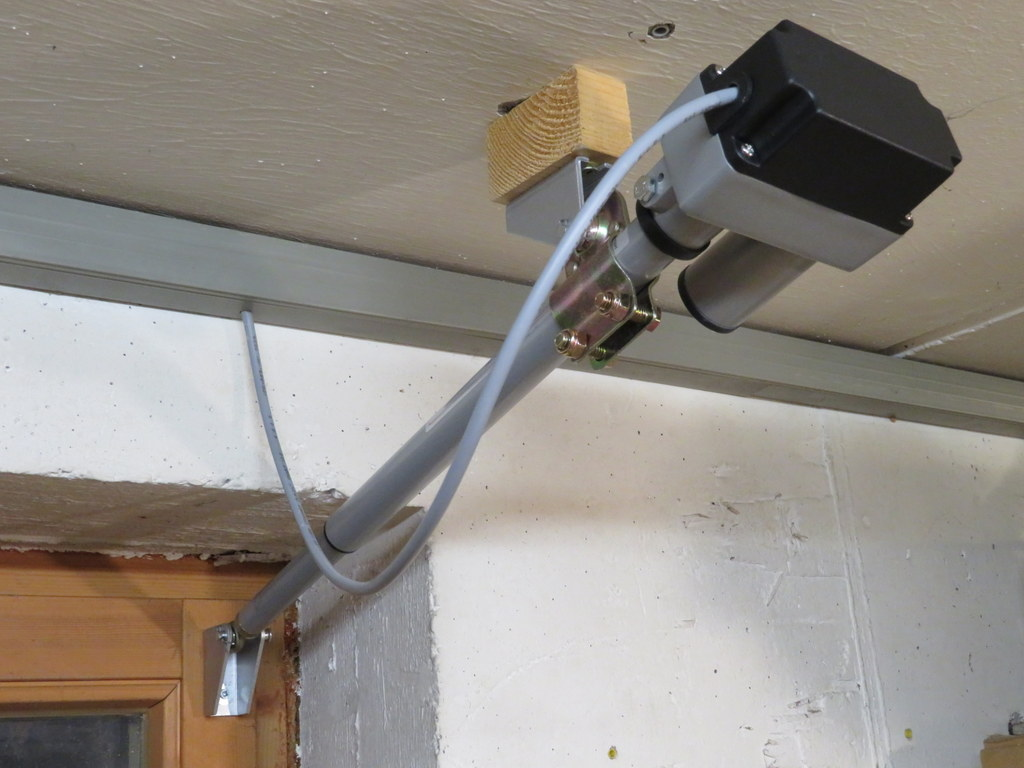
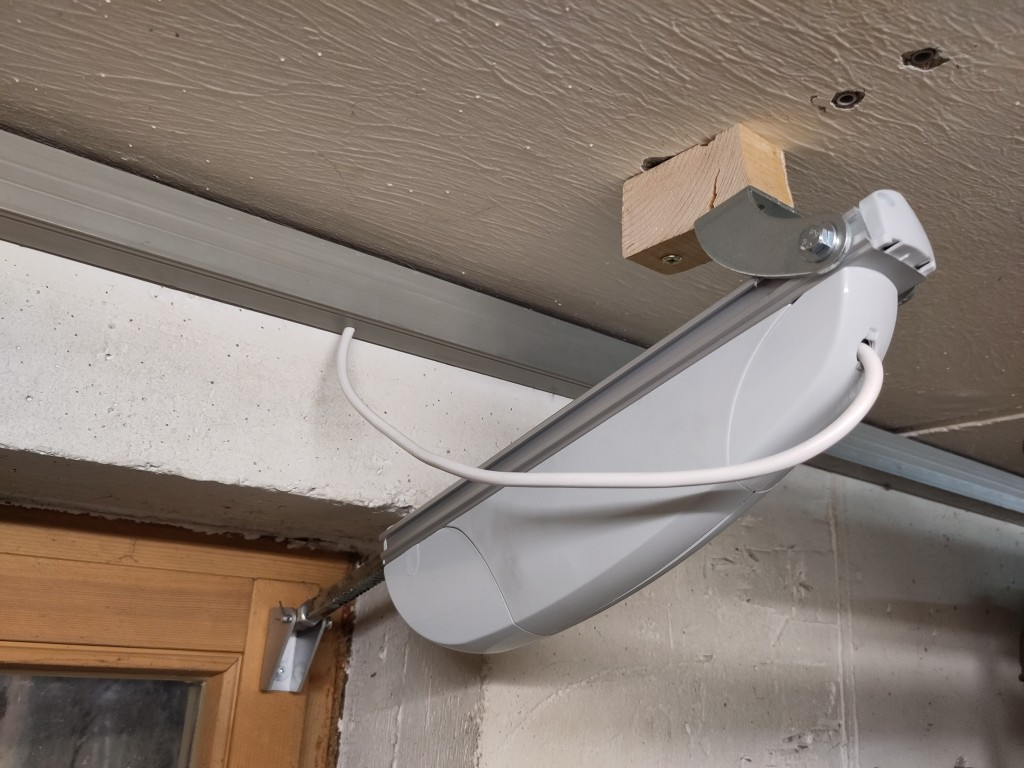
doc: update to Comunello AirWin motor

diff --git a/doc/motors.md b/doc/motors.md
@@ -6,13 +6,13 @@ Something I've been flirting with for the longest time was the question of how t
 
 ![Window actuator mounted in the food storage room](actuator2.jpg)
 
-The linear actuators from by [BOM](/README.md#bom-bill-of-material) is a reasonably priced model, which can expand by 16cm. There are also smaller and larger variants, if you need. on One end is an eyelet, on the other an adjustable clip, also with a fixing hole. To fix the actuator to the ceiling and the window I was looking for some mounting brackets. The one I found are quite stable, and also not so expensive. However after ordering I found out that they have a four week delivery time. The reason is, that they are shipped from China, by air mail, but the complete shipping process really needs some time. You might easily find a solution with shorter delivery times, but finally they arrived and they met my expectations.
+The linear actuators from by [BOM](/README.md#bom-bill-of-material) was initially a very cheap Chinese product. After several failures I now switched to Comunello AIRWIN A45 actuators. Still reasonably priced model, available in several sizes. Also mounting material is included.
 
 I had to use a wooden block to widen the distance of the actuator to the ceiling. Otherwise the actuator would hit the ceiling when it is in its most contracted position and the window is open. I was just using longer screws to fasten the bracket to the ceiling together with the wooden block.
 
 When looking at my photos you can easily find out why my project is more suited for the basement and not for the living room. At least I would not have been allowed to install this in the upper floors.
 
-The actuators have mechanical limit switches which can be adjusted. I just set the end positions so that the window is fully open or completely closed, and that the window cannot be accidentally damaged. The shortest position is fixed, but the longest can be adjusted. So I first put the actuator to the shortest position, opened the window and determined the mounting location on the ceiling. Then I expanded the actuator and watched the position closely until the window was closed tightly. Then I set the limit switch so that it switches off in this position.
+The actuators have no mechanical limit switches. Of course in the most contracted position they stop. But when expanding, they would only stop when they hit an obstacle. But as they can provide a force of 450N, that would be too late for my construction. I therefore provide a current detection in the hard- and software and switch off the drive when the supply current rises.
 
 The actuator is equipped with a DC motor and the direction can be changed by switching the polarity of the voltage. To operate two windows I designed the following relay circuit using four relays to operate two motors.
 
@@ -24,5 +24,4 @@ K3 is used to select one of the motors. Only one of the actuators can be operate
 
 But why did I add K4? It is used to switch power on or off from the complete circuit. But isn't power off anyway when both K1 and K2 are switched off? The answer is yes and no. Without K4 the power supply will be directly connected to the two terminals of the change-over switch. However you have no guarantee that one contact will be disconnected cleanly before the other contact is closed during the switching process. A short circuit may occur during switching and indeed something like this actually happened to me.
 
-R1 is used to measure the current to the actuators. Originally I have connected the upper terminal of R1 directly to an analog input of the Adafruit Feather to find out, when the actuator is at its end position and the current drops to zero. Originally I made a direct connection. Then during a switching process such a short circuit occured, a high current flowed through R1 causing a high voltage, which killed my Feather immediately. That's how I learned my lesson. Then I added the 10kOhm resistor and 100nF Capacitor as a filter and added relay K4, just to be on the safe side.
-
+R1 is used to measure the current to the actuators. Originally I have connected the upper terminal of R1 directly to an analog input of the Adafruit Feather to find out, when the actuator is at its end position and the current drops to zero. Originally I made a direct connection. Then during a switching process such a short circuit occurred, a high current flowed through R1 causing a high voltage, which killed my Feather immediately. That's how I learned my lesson. Then I added the 10kOhm resistor and 100nF Capacitor as a filter and added relay K4, just to be on the safe side.

diff --git a/README.md b/README.md
@@ -50,7 +50,7 @@ Number 2 on the list is a very perfectionist implementation of an automatic vent
 * I'm **not using a fan** for ventilation, but only open and close the windows. Until now I can see that this is completely sufficient, even if the windows are below surface. Adding a fan would mean that I would have to drill some hole to the outside, which I definitely wanted to avoid. Only project 2 has also the option to operate the windows.
 * My project can control **two rooms independently**. One is our food store, and I want to keep it quite cold there. The other is my workshop, and also the heating and the washing machine are located there. Here I want it definitely warmer. I keep the doors to these two rooms closed, so that the cold air from the food store stays there and does not cool down the complete house. None of the project is controlling two rooms independently.
 * Project 4 is working with the SmartLiving.io Internet of Things platform. I know, all that stuff is cool, but do I really need this? The other projects - and of course also mine - can also **work offline**.
-* I'm trying to **keep things simple** - and still smart. Icinga based monitoring using Nagios plugins (see project 1) might be a cool feature for somebody close to a system administrator, but might be too complicated for the average hobbyist. 
+* I'm trying to **keep things simple** - and still smart. Icinga based monitoring using Nagios plugins (see project 1) might be a cool feature for somebody close to a system administrator, but might be too complicated for the average hobbyist.
 * I wanted to have simple **local operation using a touch screen**. Project 1 has this also, the others don't.
 
 So you see, besides some similarities, there are still differences - and that's what caused me to start my own project.
@@ -63,14 +63,18 @@ For that project I used the following parts:
 * [Adafruit TFT FeatherWing - 3.5" 480x320 Touchscreen for Feathers](https://www.adafruit.com/product/3651)
 * [5V 4 Channel Relay Shield](https://www.exp-tech.de/module/relais/4262/5v-4-channel-relay-shield?c=1048)
 * [DHT22 temperature-humidity sensor](https://www.exp-tech.de/sensoren/temperatur/5604/dht22-temperature-humidity-sensor-extras)
-* [DARL 3610 actuator](http://www.summit-media.de/shop/Aktuatoren-Positioner/Aktuator-Superjack-DARL-3610.html)
+* ~~[DARL 3610 actuator](http://www.summit-media.de/shop/Aktuatoren-Positioner/Aktuator-Superjack-DARL-3610.html)~~
+* [Comunello AIRWIN A45 rack drive](https://narwa.de/product_info.php?products_id=1060)
 * [Mounting brackets](https://www.amazon.de/MagiDeal-St%C3%BCck-Hochleistungs-Montageb%C3%BCgel-Halterung-Linearantrieb/dp/B072F7M92G)
-* [36V power supply for actuators](https://www.voelkner.de/products/902705/Mean-Well-AC-DC-Netzteilbaustein-geschlossen-LRS-75-36-36-V-DC-2.1-A-75.6-W.html)
+* ~~[36V power supply for actuators](https://www.voelkner.de/products/902705/Mean-Well-AC-DC-Netzteilbaustein-geschlossen-LRS-75-36-36-V-DC-2.1-A-75.6-W.html)~~
+* [24V power supply for actuators](https://www.voelkner.de/products/902704/Mean-Well-LRS-75-24-AC-DC-Netzteilbaustein-geschlossen-3.2A-76.8W-24-V-DC-1St..html)
 * a simple USB power supply for the Adafruit parts
 * some electronic parts (resistors, capacitors) mentioned in the text
 * cable, housing, etc as you need and like
 
 It finally cost me about 200 € and gave me a lot of fun -- and dry air in the basement rooms!
+
+**Edit:** After several failures I replaced the cheap DARL actuators by a better product: The Comunello AIRWIN A45 rack drive. It is more expensive, but now I think it is worth the investment. These drives need a 24V supply, so I also changed the power supply.
 
 ## Step by step
 

diff --git a/doc/spikes.md b/doc/spikes.md
@@ -1,22 +1,24 @@
 # Spikes that hurt - How to dejam the DC motors
 
-Then everything was in place: the actuators were mounted at the windows, the sensors distributed in the rooms and outside, an initial version of the software was ready. But after operating the actuators for some seconds, the Feather was suddenly reset and restarted the program.
+**Edit:** As a very positive side effect of switching to Comunello AIRWIN actuators this problem just disappeared. The actuators are properly de-jammed and don't cause any trouble. Also the stability of the whole setup improved remarkably.
 
-My first thought was that interference caused by the motors would occur here. And I was right about that. The actuators have no interference suppression. The manufacturer has probably saved this money in order to achieve the favourable price. Fortunately, there is enough space in the junction box. 
+~~Then everything was in place: the actuators were mounted at the windows, the sensors distributed in the rooms and outside, an initial version of the software was ready. But after operating the actuators for some seconds, the Feather was suddenly reset and restarted the program.~~
 
-Typically you can do two things to cope with interferences:
+~~My first thought was that interference caused by the motors would occur here. And I was right about that. The actuators have no interference suppression. The manufacturer has probably saved this money in order to achieve the favourable price. Fortunately, there is enough space in the junction box. ~~
 
-* You can try to suppress them where they originate
-* You can try to filter them where they affect your circuit
+~~Typically you can do two things to cope with interferences:~~
 
-Whenever possible, the first approach is better because it attacks the causes. Additionally, filters at the inputs are also helpful. I connected a capacitor with 100nF and a resistor with 10Ohm in series and connected it directly to the motor terminals. One end was soldered to the lower limit switch and the other was inserted into the upper terminal. The series resistor limits the inrush current when switching the motor on.
+* ~~You can try to suppress them where they originate~~
+* ~~You can try to filter them where they affect your circuit~~
 
-(insert an image here)
+~~Whenever possible, the first approach is better because it attacks the causes. Additionally, filters at the inputs are also helpful. I connected a capacitor with 100nF and a resistor with 10Ohm in series and connected it directly to the motor terminals. One end was soldered to the lower limit switch and the other was inserted into the upper terminal. The series resistor limits the inrush current when switching the motor on.~~
 
-Additionally I added more 100nF capacitors at the following places:
+~~(insert an image here)~~
 
-* between the terminals of the 36V power supply
-* between the terminals of the 5V power supply
-* between the +5V and GND pins of the sensors
+~~Additionally I added more 100nF capacitors at the following places:~~
 
-Not sure whether this is really necessary, but just to be on the safe side...
+* ~~between the terminals of the 36V power supply~~
+* ~~between the terminals of the 5V power supply~~
+* ~~between the +5V and GND pins of the sensors~~
+
+~~Not sure whether this is really necessary, but just to be on the safe side...~~
